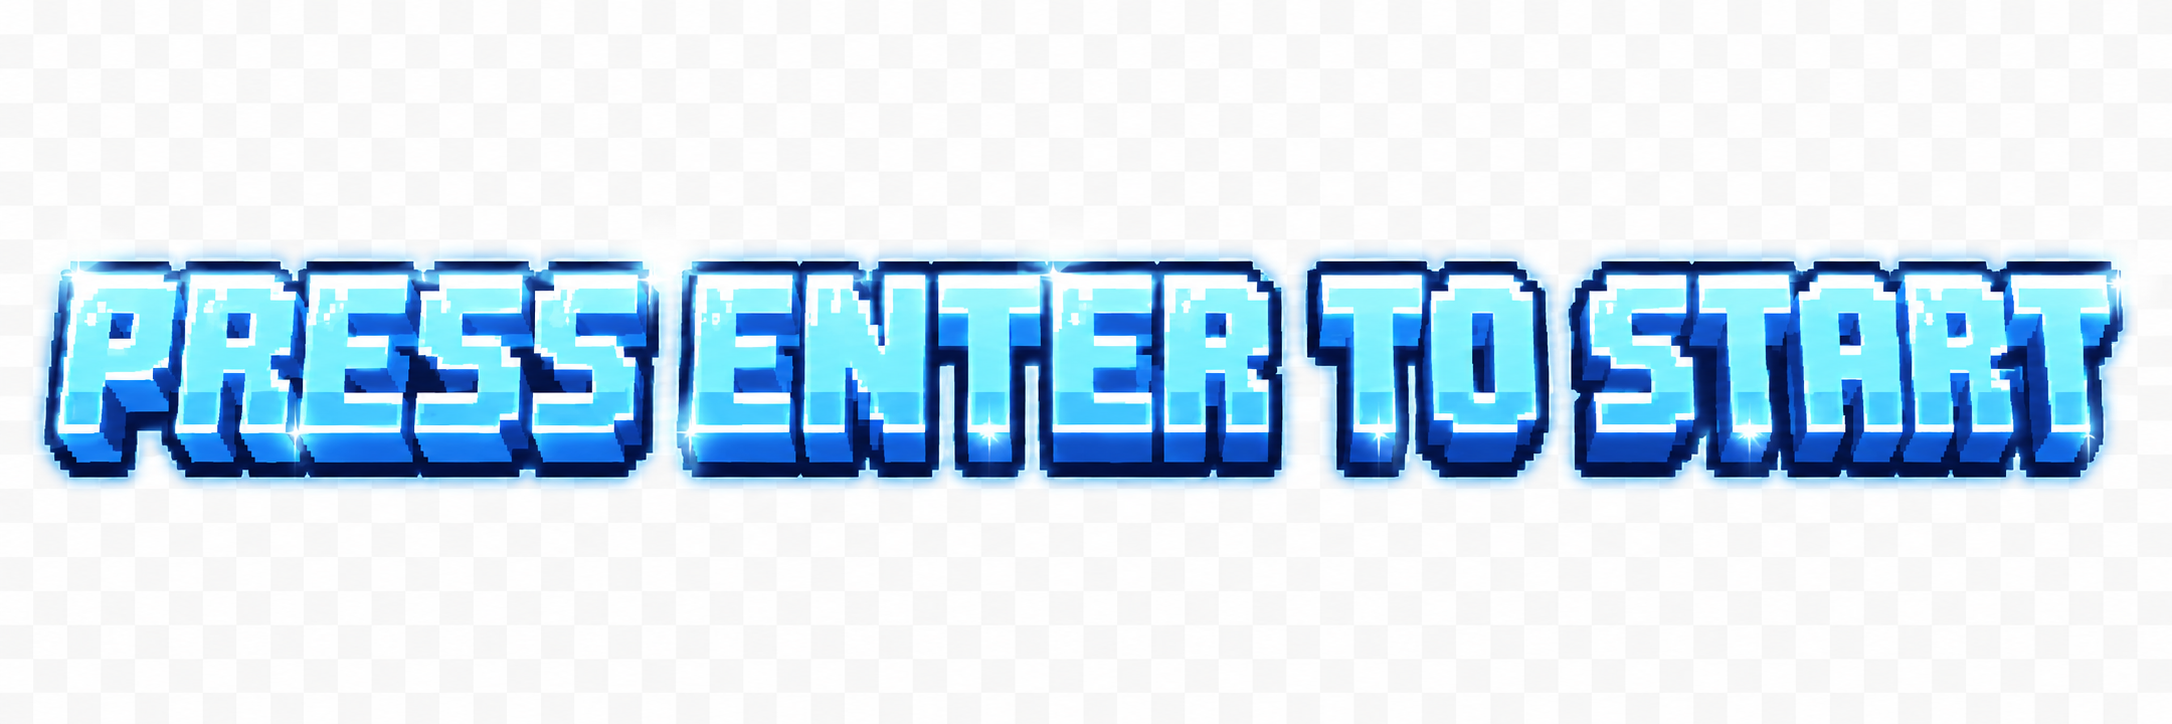
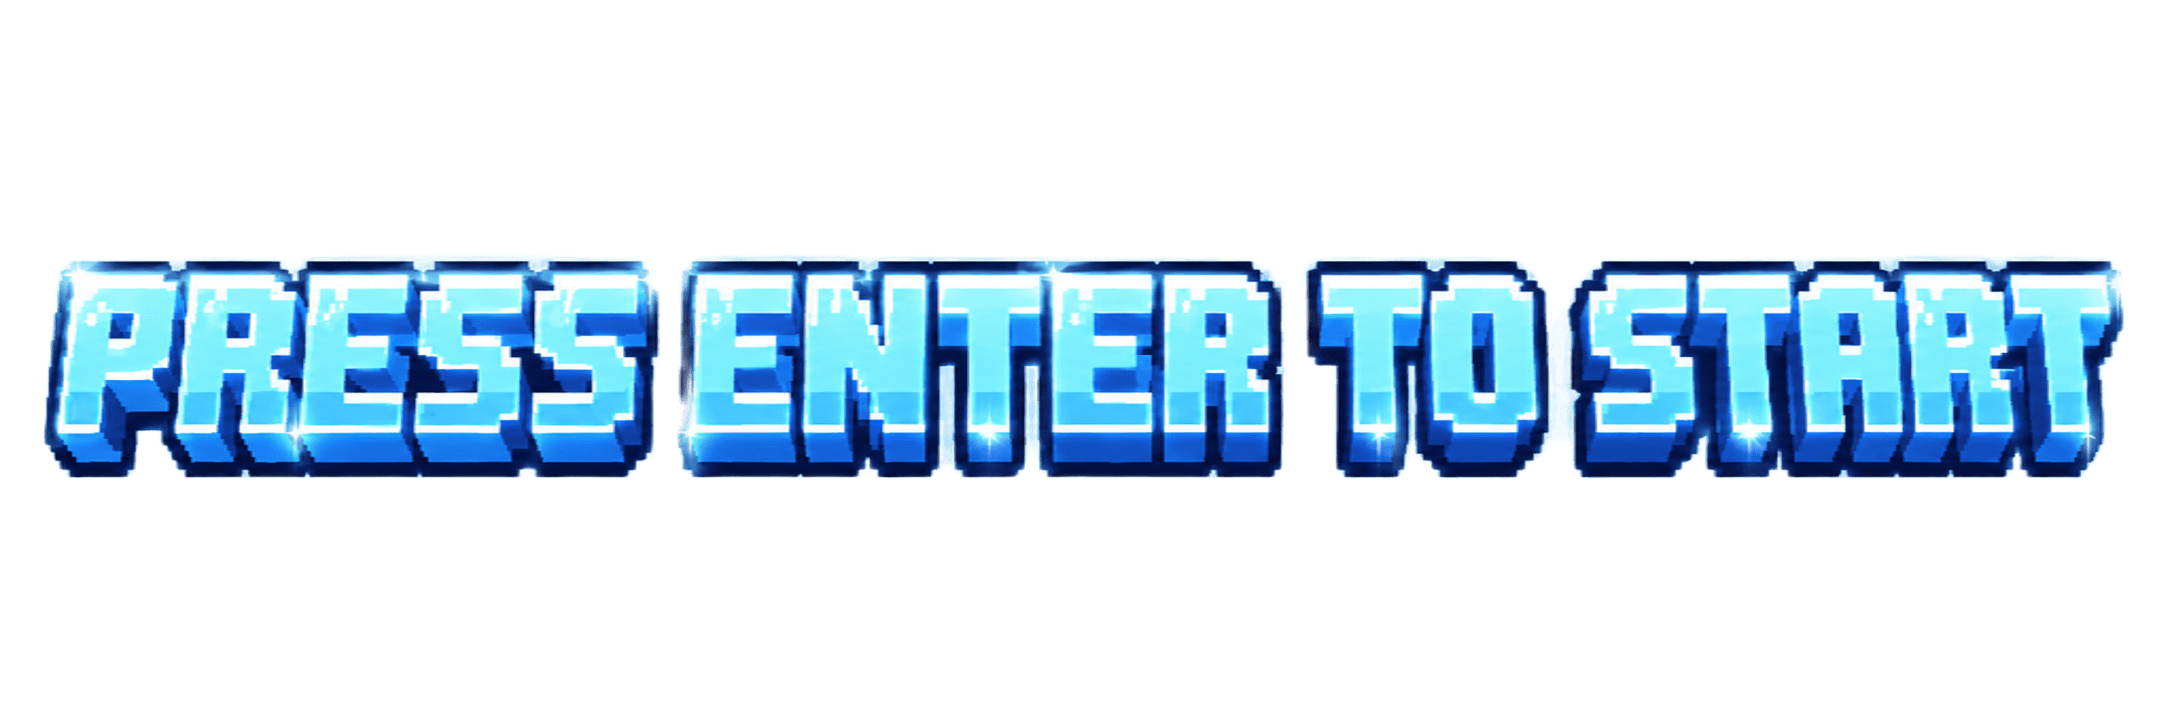
FIXED LAG | LOADING PHASE

Changed region(s): [[0.0, 0.3343, 0.9871, 0.6989], [0.7403, 0.3343, 0.9871, 0.3646], [0.6478, 0.5166, 0.6786, 0.547]]

diff --git a/karkart/screens/start.py b/karkart/screens/start.py
@@ -1,9 +1,10 @@
 from __future__ import annotations
 
 import math
+
 import pygame
 
-from karkart.constants import Colors
+from karkart.constants import Colors, ScreenPositions as sp
 from karkart.paths import PICTURES_DIR
 from karkart.ui.help_icon import HelpIcon
 from karkart.ui.settings_icon import SettingsIcon
@@ -25,8 +26,20 @@ class StartScreen:
         self.frame_delay = 140
         self.last_frame_time = pygame.time.get_ticks()
 
-        self.base_y = 590
-        self.float_amplitude = 6
+        self.base_y = sp.HEIGHT - 100
+        self.float_amplitude = 5
+
+    def _scale_prompt(self, image: pygame.Surface) -> pygame.Surface:
+        max_width = 560
+        max_height = 90
+
+        width, height = image.get_size()
+        scale = min(max_width / width, max_height / height)
+
+        new_width = max(1, int(width * scale))
+        new_height = max(1, int(height * scale))
+
+        return pygame.transform.smoothscale(image, (new_width, new_height))
 
     def _load_start_frames(self) -> list[pygame.Surface]:
         frames = []
@@ -36,7 +49,9 @@ class StartScreen:
                 PICTURES_DIR / f"start_{i}.png",
                 convert_alpha=True,
             )
+
             if image is not None:
+                image = self._scale_prompt(image)
                 frames.append(image)
 
         return frames
@@ -82,39 +97,29 @@ class StartScreen:
             frame = self.start_frames[self.current_frame]
             rect = frame.get_rect(center=(center_x, y))
 
-            glow_strength = 70 + int((math.sin(ticks * 0.006) + 1) * 35)
+            glow_strength = 55 + int((math.sin(ticks * 0.006) + 1) * 25)
 
-            glow = pygame.Surface((rect.width + 50, rect.height + 30), pygame.SRCALPHA)
+            glow = pygame.Surface((rect.width + 38, rect.height + 22), pygame.SRCALPHA)
             pygame.draw.rect(
                 glow,
                 (80, 170, 255, glow_strength),
                 glow.get_rect(),
-                border_radius=18,
+                border_radius=16,
             )
             glow_rect = glow.get_rect(center=rect.center)
             surface.blit(glow, glow_rect)
 
-            shadow = pygame.Surface((rect.width + 16, rect.height + 12), pygame.SRCALPHA)
+            shadow = pygame.Surface((rect.width + 12, rect.height + 8), pygame.SRCALPHA)
             pygame.draw.rect(
                 shadow,
-                (0, 0, 0, 90),
+                (0, 0, 0, 75),
                 shadow.get_rect(),
-                border_radius=16,
+                border_radius=14,
             )
-            shadow_rect = shadow.get_rect(center=(rect.centerx + 3, rect.centery + 5))
+            shadow_rect = shadow.get_rect(center=(rect.centerx + 3, rect.centery + 4))
             surface.blit(shadow, shadow_rect)
 
             surface.blit(frame, rect)
-        else:
-            font = pygame.font.Font(None, 72)
-            text = font.render("PRESS ENTER TO START", True, (255, 255, 255))
-            text_rect = text.get_rect(center=(center_x, y))
-
-            shadow = font.render("PRESS ENTER TO START", True, (40, 80, 140))
-            shadow_rect = shadow.get_rect(center=(center_x + 3, y + 3))
-
-            surface.blit(shadow, shadow_rect)
-            surface.blit(text, text_rect)
 
     @staticmethod
     def _try_load_image(path, *, convert_alpha: bool) -> pygame.Surface | None:

diff --git a/karkart/powerups/powerups_manager.py b/karkart/powerups/powerups_manager.py
@@ -1,6 +1,5 @@
 import math
 import random
-from collections import deque
 
 import pygame
 
@@ -50,65 +49,6 @@ class PowerupRendering:
 
         self.frames = PowerupRendering._frames_cache
 
-    def _is_background_pixel(self, color: pygame.Color) -> bool:
-        r, g, b, a = color.r, color.g, color.b, color.a
-
-        if a < 20:
-            return True
-
-        is_light = r > 185 and g > 185 and b > 185
-        is_grayish = max(r, g, b) - min(r, g, b) < 45
-
-        return is_light and is_grayish
-
-    def _remove_fake_background(self, image: pygame.Surface) -> pygame.Surface:
-        image = image.convert_alpha()
-        width, height = image.get_size()
-
-        visited = set()
-        queue = deque()
-
-        for x in range(width):
-            queue.append((x, 0))
-            queue.append((x, height - 1))
-
-        for y in range(height):
-            queue.append((0, y))
-            queue.append((width - 1, y))
-
-        while queue:
-            x, y = queue.popleft()
-
-            if (x, y) in visited:
-                continue
-
-            if x < 0 or x >= width or y < 0 or y >= height:
-                continue
-
-            visited.add((x, y))
-
-            color = image.get_at((x, y))
-
-            if not self._is_background_pixel(color):
-                continue
-
-            image.set_at((x, y), (255, 255, 255, 0))
-
-            queue.append((x + 1, y))
-            queue.append((x - 1, y))
-            queue.append((x, y + 1))
-            queue.append((x, y - 1))
-
-        crop_rect = image.get_bounding_rect(min_alpha=10)
-
-        if crop_rect.width <= 0 or crop_rect.height <= 0:
-            return image
-
-        cropped = pygame.Surface((crop_rect.width, crop_rect.height), pygame.SRCALPHA)
-        cropped.blit(image, (0, 0), crop_rect)
-
-        return cropped
-
     def _load_frames(self) -> list[pygame.Surface]:
         frame_names = [
             "box_1.png",
@@ -124,7 +64,6 @@ class PowerupRendering:
 
             try:
                 image = pygame.image.load(str(image_path)).convert_alpha()
-                image = self._remove_fake_background(image)
                 frames.append(image)
             except (FileNotFoundError, pygame.error):
                 print(f"Could not load powerup sprite: {image_path}")
@@ -164,7 +103,7 @@ class PowerupRendering:
         car_x: float,
         car_y: float,
         zoom: float,
-        camera_angle: float,
+        camera_angle: float = 0.0,
     ):
         if not self.active:
             return
@@ -200,7 +139,7 @@ class PowerupRendering:
         frame_index = (ticks // 120) % len(self.frames)
         frame = self.frames[frame_index]
 
-        scaled_frame = pygame.transform.scale(frame, (box_size, box_size))
+        scaled_frame = pygame.transform.smoothscale(frame, (box_size, box_size))
         frame_rect = scaled_frame.get_rect(center=(sx, sy))
 
         surface.blit(scaled_frame, frame_rect)
